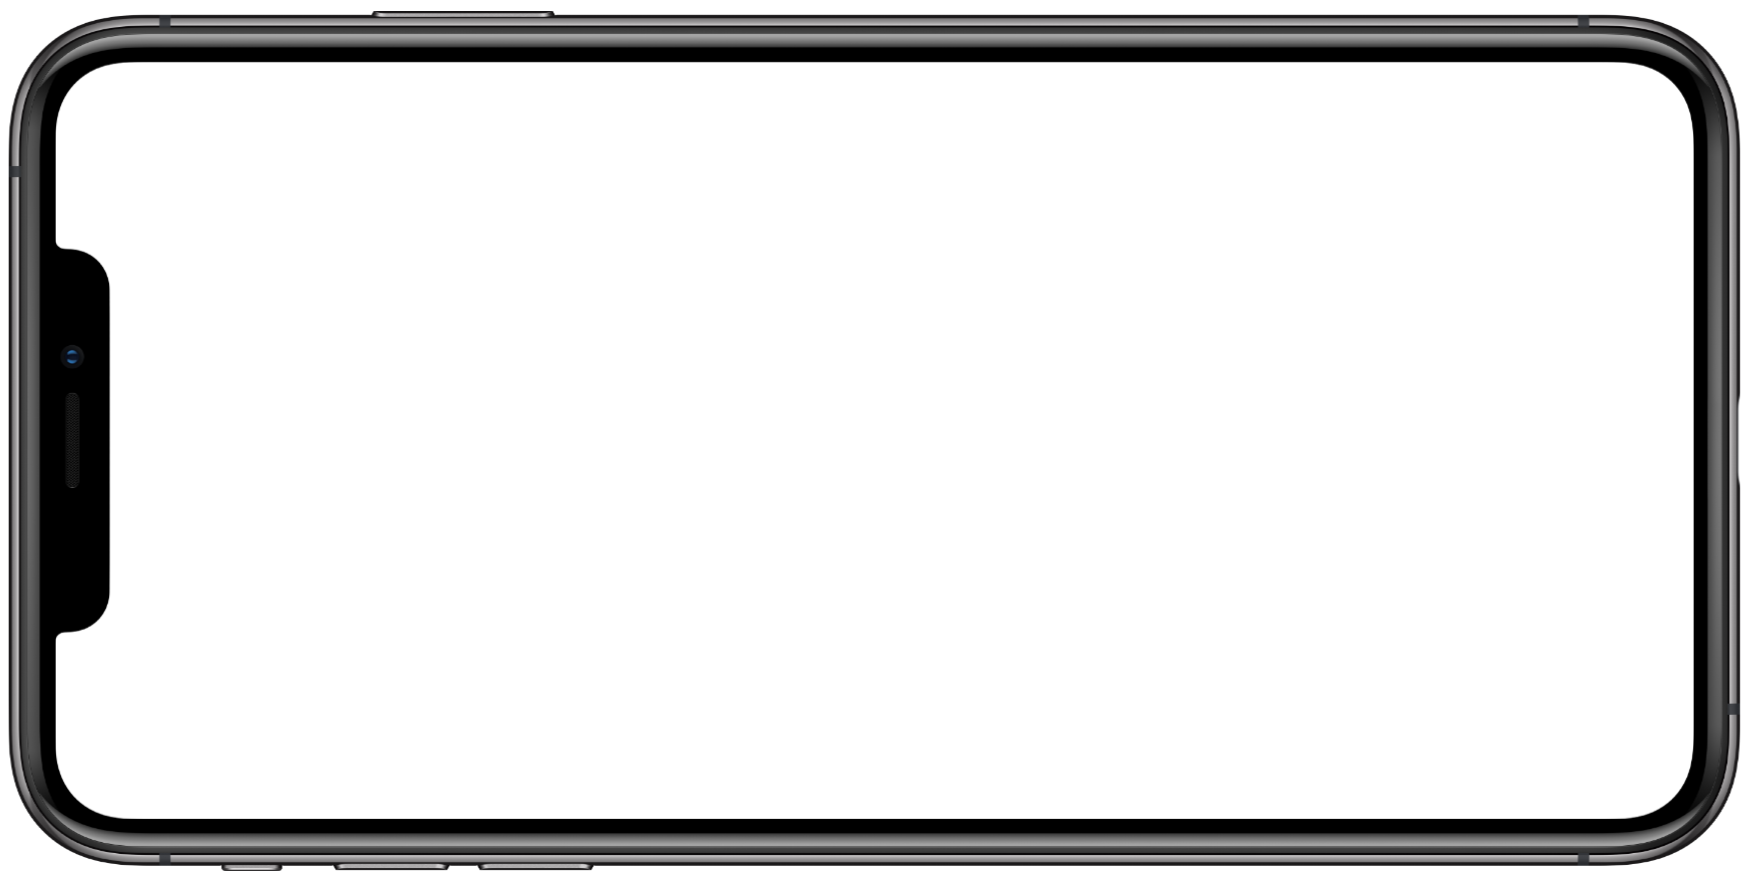
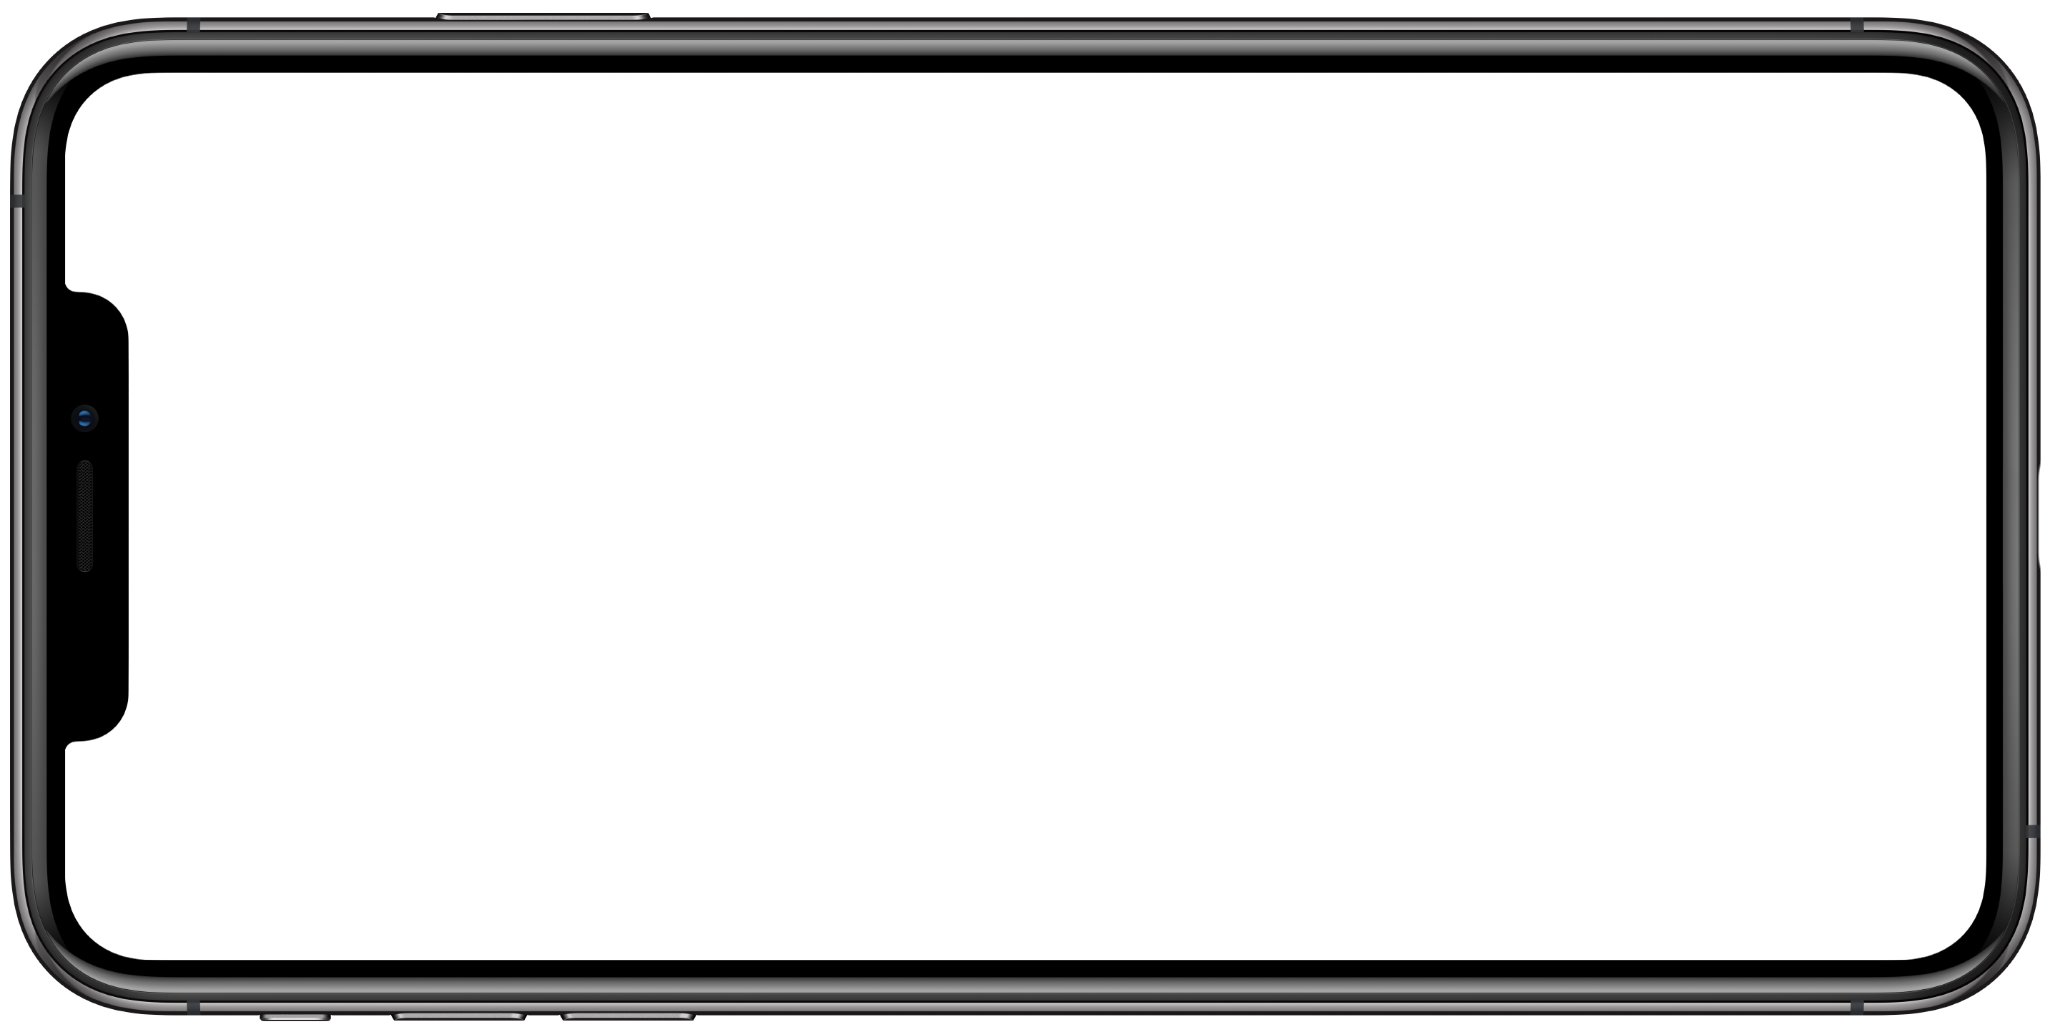
Experimental support for iPhone 6..8 models

diff --git a/iphoneoverlay.py b/iphoneoverlay.py
@@ -5,7 +5,6 @@ import argparse
 import os
 import subprocess
 import sys
-import uuid
 
 NAME = 'iphoneoverlay.py'
 VERSION = '1.0.1.20181021'
@@ -16,19 +15,73 @@ APPLE_COPYRIGHT = 'Apple, the Apple logo, Apple TV, Apple Watch, iPad, iPhone, i
 DEVICE_FRAMES_PATH = 'device_frames'
 
 DEVICE_FRAMES = {
+    # Dimensions in this dict are designed to maintain the original screen recording resolution where possible
+    # 'padding' is the size of the overlay image
+    # 'scale': uses the height (or width in landscape orientation) to scale the video
     'landscape': {
+        'iphone8S': {
+            'filename': os.path.join(DEVICE_FRAMES_PATH, 'iPhone-8-Landscape-Silver.png'),
+            'padding': '1800:920',
+            'scale': 'scale=1334:-1',
+        },
+        'iphone8SG': {
+            'filename': os.path.join(DEVICE_FRAMES_PATH, 'iPhone-8-Landscape-Space-Gray.png'),
+            'padding': '1800:920',
+            'scale': 'scale=1334:-1',
+        },
+        'iphone8plusS': {
+            'filename': os.path.join(DEVICE_FRAMES_PATH, 'iPhone-8Plus-Landscape-Silver.png'),
+            'padding': '2540:1280',
+            'scale': 'scale=1920:-1',
+        },
+        'iphone8plusSG': {
+            'filename': os.path.join(DEVICE_FRAMES_PATH, 'iPhone-8Plus-Landscape-Space-Gray.png'),
+            'padding': '2540:1280',
+            'scale': 'scale=1920:-1',
+        },
+        'iphoneXS': {
+            'filename': os.path.join(DEVICE_FRAMES_PATH, 'iPhone-XS-Landscape-Space-Gray.png'),
+            'padding': '2062:1044',
+            'scale': 'scale=1920:-1',
+        },
         'iphoneXSmax': {
             'filename': os.path.join(DEVICE_FRAMES_PATH, 'iPhone-XS-Max-Landscape-Space-Gray.png'),
-            'padding': '1748:888',
-            'scale': 'transpose=2,scale=1640:-1',
+            'padding': '2050:1032',
+            'scale': 'transpose=2,scale=1920:-1',
         }
     },
     'portrait': {
+        'iphone8S': {
+            'filename': os.path.join(DEVICE_FRAMES_PATH, 'iPhone-8-Portrait-Silver.png'),
+            'padding': '920:1800',
+            'scale': 'scale=-1:1334',
+        },
+        'iphone8SG': {
+            'filename': os.path.join(DEVICE_FRAMES_PATH, 'iPhone-8-Portrait-Space-Gray.png'),
+            'padding': '920:1800',
+            'scale': 'scale=-1:1334',
+        },
+        'iphone8plusS': {
+            'filename': os.path.join(DEVICE_FRAMES_PATH, 'iPhone-8Plus-Portrait-Silver.png'),
+            'padding': '1280:2540',
+            'scale': 'scale=-1:1920',
+        },
+        'iphone8plusSG': {
+            'filename': os.path.join(DEVICE_FRAMES_PATH, 'iPhone-8Plus-Portrait-Space-Gray.png'),
+            'padding': '1280:2540',
+            'scale': 'scale=-1:1920',
+        },
+        'iphoneXS': {
+            'filename': os.path.join(DEVICE_FRAMES_PATH, 'iPhone-XS-Portrait-Space-Gray.png'),
+            'padding': '1044:2062',
+            'scale': 'scale=-1:1920',
+        },
         'iphoneXSmax': {
             'filename': os.path.join(DEVICE_FRAMES_PATH, 'iPhone-XS-Max-Portrait-Space-Gray.png'),
-            'padding': '888:1748',
-            'scale': 'scale=-1:1640',
+            'padding': '1032:2050',
+            'scale': 'scale=-1:1920',
         }
+
     },
 }
 
